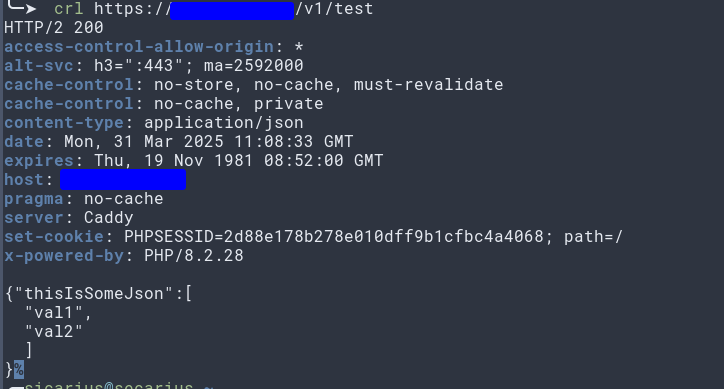
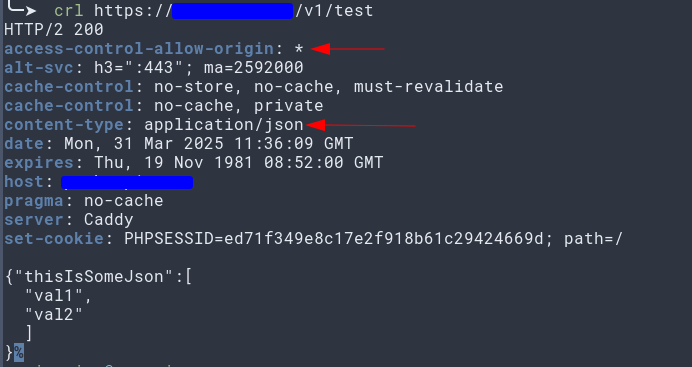
Update readme

diff --git a/README.md b/README.md
@@ -1,2 +1,135 @@
-# paths-handler
-Generate on-flight paths for your SSRF/LFI/XSS and other vulns
+# PathHandler
+
+**PathHandler** is a self-hosted tool designed for penetration testers or security researchers who need to rapidly set up arbitrary HTTP endpoints with custom responses. For instance, if you have a SSRF scenario, you can configure this server so that when a vulnerable application requests a path (e.g., `/v1/test`), you can serve custom JSON, text, or binary data — along with custom headers and status codes.
+
+## Key Features
+
+1. **Dynamic Endpoints**: Create and manage any path (e.g. `/v1/test`, `/api/whatever`) with HTTP methods (`GET`, `POST`, `PUT`, `DELETE`).  
+2. **Custom Responses**: Control the status code, body, and headers. You can serve JSON, plain text, or arbitrary content.  
+3. **Admin Interface**: A protected admin panel (with a random or custom path) lets you create, edit, or delete these endpoints.  
+4. **Logging**: All incoming requests (except those to the admin panel) can be logged, for easier debugging or demonstration.  
+5. **Dockerized**: The entire stack (PHP Lumen, Caddy, PostgreSQL) is set up via Docker Compose, making it easy to deploy.
+
+---
+
+## Stack Overview
+
+- **Reverse Proxy**: [Caddy](https://caddyserver.com/)  
+  - Handles HTTP/2, HTTPS, and automatic TLS.  
+- **Backend**: [PHP Lumen](https://lumen.laravel.com/)  
+  - Lightweight Laravel-based micro-framework handling dynamic routes and the admin panel.  
+- **Database**: [PostgreSQL](https://www.postgresql.org/)  
+  - Stores endpoints, logs, etc.  
+- **Docker**:  
+  - `docker-compose.yml` orchestrates the above services.
+
+---
+
+## Setup & Configuration
+
+/!\ You need the latest version of `docker compose` (not `docker-compose` but `docker compose` :) ) /!\
+
+### 1) Edit Docker Credentials
+
+In **`docker-compose.yml`**, you will find environment variables for the PostgreSQL container, for example:
+
+```yaml
+db:
+  image: postgres:15
+  container_name: path-handler-db
+  environment:
+    - POSTGRES_USER=myuser
+    - POSTGRES_PASSWORD=mysecretpass
+    - POSTGRES_DB=pathhandler
+```
+
+Change `POSTGRES_USER`, `POSTGRES_PASSWORD` as desired.
+
+### 2) Edit `backend/.env`
+
+In **`backend/.env`**, update:
+
+```
+DB_HOST=db
+DB_PORT=5432
+DB_DATABASE=pathhandler
+DB_USERNAME=myuser
+DB_PASSWORD=mysecretpass
+
+ADMIN_PATH=admin-8d6544cfc5f8ec0cd5edc4415e9e47d9
+```
+
+- Make sure `DB_USERNAME` and `DB_PASSWORD` match the values you set in `docker-compose.yml`.  
+- `ADMIN_PATH` defines the admin panel’s path segment. For example, if `ADMIN_PATH=admin-xxxx`, then your admin URL is `https://<host>/admin-xxxx/`.
+
+### 3) Update Caddy config
+
+In **`caddy/Caddyfile`**, update `yourdomain` with your actual domain name, or remove the 443 port if you only have an IP (dirty solution):
+
+```
+:80 {
+    reverse_proxy backend:8000
+}
+
+yourdomain:443{
+    tls admin@yourdomain
+    reverse_proxy backend:8000
+}
+```
+
+### 4) Build & Start
+
+From the root folder:
+
+```bash
+docker compose build
+docker compose up -d
+```
+
+This will spin up three containers: `caddy`, `backend`, and `db`.
+
+### 5) Run Migrations
+
+Run the Lumen migrations to create the necessary tables:
+
+```bash
+docker compose exec backend php artisan migrate
+```
+
+### 6) Access the Admin Panel
+
+Go to `https://<your_host>/<ADMIN_PATH>/` (e.g., `https://paths.p1s.me/admin-yourrandomstring`)  
+- Use the credentials-you've changed-on `backend/.env`.  
+- From here, create new endpoints (e.g., `/v1/test`) with a custom method, status code, headers, body, etc.
+
+---
+
+## Demo
+
+### Setup UI
+
+When editing an endpoint, you can configure everything from path, method, headers, status code, to the response body. Below is a screenshot of the admin interface for an endpoint `/v1/test`:
+
+![Demo Setup UI](/img/demo_setup.png)
+
+### Example Response
+
+Here is a sample `curl` request and the returned response:
+
+![Demo Response](/img/demo_response.png)
+
+Notice the custom headers with the red arrow.
+
+---
+
+## Usage Tips
+
+- **Multiple Methods**: If you want the same path to handle multiple methods (GET, POST, PUT, etc.), create separate endpoints or rely on catch-all logic.  
+- **Headers**: You can set custom headers like `Content-Type: text/plain`, or `Access-Control-Allow-Origin: *` to handle CORS easily.  
+- **Security**: This tool is intended for local testing, demo, or controlled lab environments. Use caution before deploying it to a public server.
+
+---
+
+## Contributing & License
+
+Feel free to customize or extend the project for your SSRF, LFI, or other pentest scenarios. PRs welcomed. License is [MIT](LICENSE).
